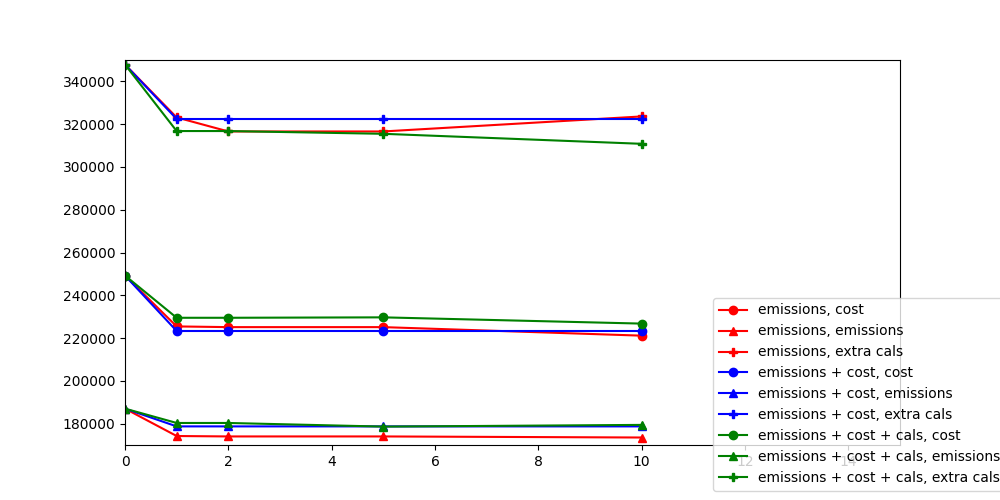
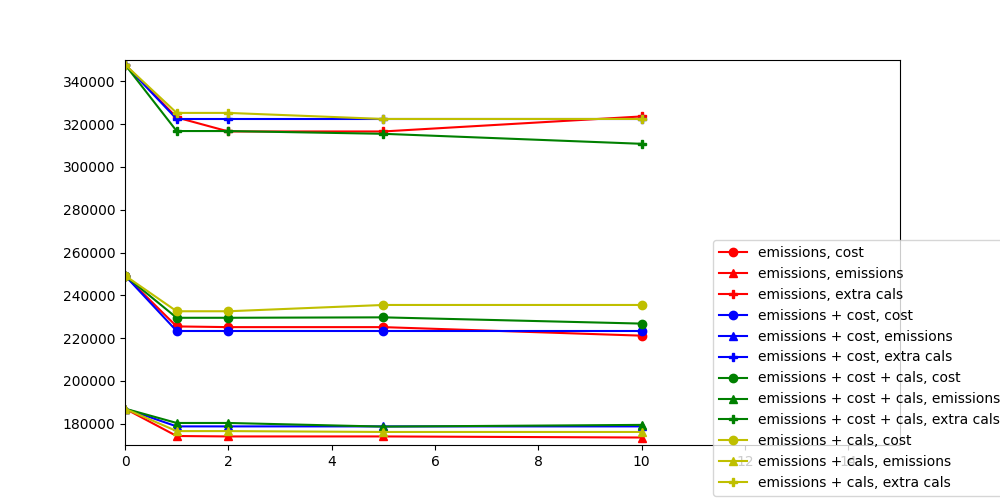
More benchmark tests.

diff --git a/Code/Practice_problem/visuals.py b/Code/Practice_problem/visuals.py
@@ -22,24 +22,31 @@ emiCostCals_cost = (249220, 229480,	229480,	229680,	226760)
 emiCostCals_emi = (1870*100, 1803*100,	1803*100,	1786*100,	1794*100)
 emiCostCals_cals = (347864, 316784,	316784,	315494,	310814)
 
+# Minimise emissions * 100 + extra cals
+
+emiCals_cost = (249220, 232530,	232530,	235470,	235470)
+emiCals_emi = (1870*100, 1765*100,	1765*100,	1761*100,	1761*100)
+emiCals_cals = (347864, 325264,	325264,	322434,	322434)
+
 emi = (emi_cost, emi_emi, emi_cals)
 emiCost = (emiCost_cost, emiCost_emi, emiCost_cals)
 emiCostCals = (emiCostCals_cost, emiCostCals_emi, emiCostCals_cals)
+emiCals = (emiCals_cost, emiCals_emi, emiCals_cals)
 
-allObjs = (emi, emiCost, emiCostCals) 
+allObjs = (emi, emiCost, emiCostCals, emiCals) 
 
-colours = ("r-", "b-", "g-")
+colours = ("r-", "b-", "g-", "y-")
 shapes = ("o", "^", "P")
-objNames = ("emissions", "emissions + cost", "emissions + cost + cals")
+objNames = ("emissions", "emissions + cost", "emissions + cost + cals", "emissions + cals")
  
 plt.figure(figsize=(10,5))
 plt.axis([0, 15, 170000, 350000])
-for i in range(3):
+for i in range(4):
     colour = colours[i]
     obj = allObjs[i]
     for j in range(3):        
         plt.plot(minutes, obj[j], colours[i], marker=shapes[j], label="{}, {}".format(objNames[i], measures[j]))
-plt.legend(bbox_to_anchor =(0.75, 0.4))
+plt.legend(bbox_to_anchor =(0.75, 0.55))
 plt.savefig(savePath)
 
 
